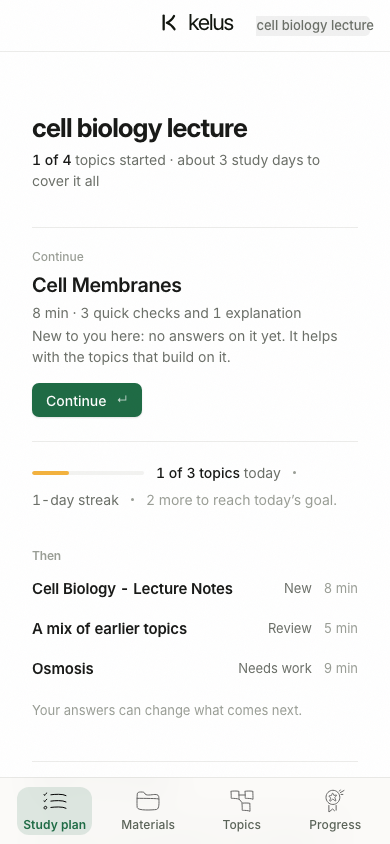
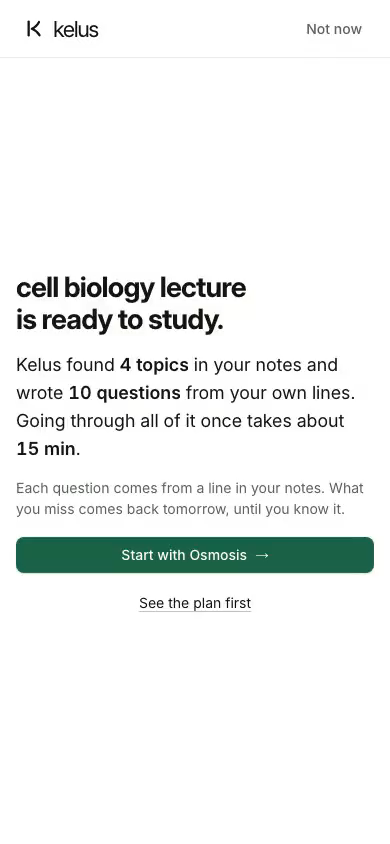
Trim hero walkthrough intro and hide video chrome

diff --git a/components/hero/HeroProductVideo.tsx b/components/hero/HeroProductVideo.tsx
@@ -4,6 +4,9 @@ import { useEffect, useRef, useState } from "react";
 import { useReducedMotion } from "motion/react";
 import styles from "./ProductVideoHero.module.css";
 
+// The recording's opening shows the setup screen; the hero begins once the imported course is ready.
+const WALKTHROUGH_START_SECONDS = 4;
+
 /** Actual browser recordings of a fresh PDF upload and revision session. */
 export function HeroProductVideo() {
   const desktop = useRef<HTMLVideoElement>(null);
@@ -11,6 +14,7 @@ export function HeroProductVideo() {
   const pausedByUser = useRef(false);
   const manuallyPlaying = useRef(false);
   const [playback, setPlayback] = useState<"playing" | "paused" | "ended">("paused");
+  const [decodedFrame, setDecodedFrame] = useState({ desktop: false, mobile: false });
   const reduceMotion = useReducedMotion();
 
   const visibleVideo = () => [desktop.current, mobile.current].find(
@@ -28,7 +32,7 @@ export function HeroProductVideo() {
     }
     pausedByUser.current = false;
     manuallyPlaying.current = true;
-    if (video.ended) video.currentTime = 0;
+    if (video.ended) video.currentTime = WALKTHROUGH_START_SECONDS;
     void video.play().catch(() => setPlayback("paused"));
   };
 
@@ -37,6 +41,12 @@ export function HeroProductVideo() {
     const motionOff = Boolean(reduceMotion) || window.matchMedia("(prefers-reduced-motion: reduce)").matches;
     const syncPlayback = () => {
       for (const video of videos) {
+        if (video.readyState < HTMLMediaElement.HAVE_METADATA) continue;
+        if (video.currentTime < WALKTHROUGH_START_SECONDS) {
+          video.currentTime = WALKTHROUGH_START_SECONDS;
+          continue;
+        }
+        if (video.seeking) continue;
         const active = getComputedStyle(video).display !== "none"
           && video.getBoundingClientRect().top < window.innerHeight * 0.8
           && video.getBoundingClientRect().bottom > window.innerHeight * 0.2;
@@ -48,7 +58,11 @@ export function HeroProductVideo() {
       }
     };
     const observer = new IntersectionObserver(syncPlayback, { threshold: [0, 0.2, 0.8] });
-    videos.forEach((video) => observer.observe(video));
+    videos.forEach((video) => {
+      observer.observe(video);
+      video.addEventListener("loadedmetadata", syncPlayback);
+      video.addEventListener("seeked", syncPlayback);
+    });
     document.addEventListener("visibilitychange", syncPlayback);
     window.addEventListener("resize", syncPlayback);
     syncPlayback();
@@ -56,55 +70,67 @@ export function HeroProductVideo() {
       observer.disconnect();
       document.removeEventListener("visibilitychange", syncPlayback);
       window.removeEventListener("resize", syncPlayback);
-      videos.forEach((video) => video.pause());
+      videos.forEach((video) => {
+        video.removeEventListener("loadedmetadata", syncPlayback);
+        video.removeEventListener("seeked", syncPlayback);
+        video.pause();
+      });
     };
   }, [reduceMotion]);
 
   return (
     <figure className={styles.videoFigure} aria-label="Kelus product walkthrough: upload a lecture PDF, answer a recall question, and see the study plan respond">
       <div className={styles.videoFrame}>
-        <video
-          ref={desktop}
-          className={styles.desktopVideo}
-          muted
-          playsInline
-          preload="metadata"
-          poster="/hero/kelus-product-poster.png"
-          aria-label="Watch Kelus turn an uploaded lecture PDF into a study plan"
-          onPlay={() => { if (visibleVideo() === desktop.current) setPlayback("playing"); }}
-          onPause={() => { if (visibleVideo() === desktop.current && !desktop.current?.ended) setPlayback("paused"); }}
-          onEnded={() => { if (visibleVideo() === desktop.current) setPlayback("ended"); }}
+        <button
+          className={styles.videoInteraction}
+          type="button"
+          onClick={togglePlayback}
+          aria-label={`${playback === "playing" ? "Pause" : playback === "ended" ? "Replay" : "Play"} product walkthrough`}
         >
-          <source src="/hero/kelus-product-walkthrough.mp4" type="video/mp4" />
-          <source src="/hero/kelus-product-walkthrough.webm" type="video/webm" />
-          <track src="/hero/kelus-product-walkthrough.vtt" kind="captions" srcLang="en" label="Walkthrough steps" />
-          Your browser does not support video playback.
-        </video>
-        <video
-          ref={mobile}
-          className={styles.mobileVideo}
-          muted
-          playsInline
-          preload="metadata"
-          poster="/hero/kelus-product-poster-mobile.png"
-          aria-label="Watch Kelus turn an uploaded lecture PDF into a study plan on a phone"
-          onPlay={() => { if (visibleVideo() === mobile.current) setPlayback("playing"); }}
-          onPause={() => { if (visibleVideo() === mobile.current && !mobile.current?.ended) setPlayback("paused"); }}
-          onEnded={() => { if (visibleVideo() === mobile.current) setPlayback("ended"); }}
-        >
-          <source src="/hero/kelus-product-walkthrough-mobile.mp4" type="video/mp4" />
-          <source src="/hero/kelus-product-walkthrough-mobile.webm" type="video/webm" />
-          <track src="/hero/kelus-product-walkthrough.vtt" kind="captions" srcLang="en" label="Walkthrough steps" />
-          Your browser does not support video playback.
-        </video>
-        <button className={styles.playbackButton} type="button" onClick={togglePlayback} aria-label={`${playback === "playing" ? "Pause" : playback === "ended" ? "Replay" : "Play"} video`}>
-          {playback === "playing" ? (
-            <svg viewBox="0 0 20 20" fill="currentColor" aria-hidden="true"><rect x="5" y="4" width="3" height="12" rx="1" /><rect x="12" y="4" width="3" height="12" rx="1" /></svg>
-          ) : playback === "ended" ? (
-            <svg viewBox="0 0 20 20" fill="none" stroke="currentColor" strokeWidth="1.8" strokeLinecap="round" strokeLinejoin="round" aria-hidden="true"><path d="M16 6a7 7 0 1 0 1 6" /><path d="M16 2v4h-4" /></svg>
-          ) : (
-            <svg viewBox="0 0 20 20" fill="currentColor" aria-hidden="true"><path d="M6 3.8a1 1 0 0 1 1.5-.86l9 6.2a1 1 0 0 1 0 1.72l-9 6.2A1 1 0 0 1 6 16.2V3.8Z" /></svg>
-          )}
+          <video
+            ref={desktop}
+            className={`${styles.desktopVideo} ${decodedFrame.desktop ? styles.decodedFrame : ""}`}
+            muted
+            playsInline
+            preload="metadata"
+            poster="/hero/kelus-product-poster.png"
+            aria-hidden="true"
+            onPlay={() => { if (visibleVideo() === desktop.current) setPlayback("playing"); }}
+            onTimeUpdate={() => {
+              if (desktop.current && desktop.current.currentTime > WALKTHROUGH_START_SECONDS + 0.1) {
+                setDecodedFrame((frames) => frames.desktop ? frames : { ...frames, desktop: true });
+              }
+            }}
+            onPause={() => { if (visibleVideo() === desktop.current && !desktop.current?.ended) setPlayback("paused"); }}
+            onEnded={() => { if (visibleVideo() === desktop.current) setPlayback("ended"); }}
+          >
+            <source src="/hero/kelus-product-walkthrough.mp4" type="video/mp4" />
+            <source src="/hero/kelus-product-walkthrough.webm" type="video/webm" />
+            <track src="/hero/kelus-product-walkthrough.vtt" kind="captions" srcLang="en" label="Walkthrough steps" />
+            Your browser does not support video playback.
+          </video>
+          <video
+            ref={mobile}
+            className={`${styles.mobileVideo} ${decodedFrame.mobile ? styles.decodedFrame : ""}`}
+            muted
+            playsInline
+            preload="metadata"
+            poster="/hero/kelus-product-poster-mobile.png"
+            aria-hidden="true"
+            onPlay={() => { if (visibleVideo() === mobile.current) setPlayback("playing"); }}
+            onTimeUpdate={() => {
+              if (mobile.current && mobile.current.currentTime > WALKTHROUGH_START_SECONDS + 0.1) {
+                setDecodedFrame((frames) => frames.mobile ? frames : { ...frames, mobile: true });
+              }
+            }}
+            onPause={() => { if (visibleVideo() === mobile.current && !mobile.current?.ended) setPlayback("paused"); }}
+            onEnded={() => { if (visibleVideo() === mobile.current) setPlayback("ended"); }}
+          >
+            <source src="/hero/kelus-product-walkthrough-mobile.mp4" type="video/mp4" />
+            <source src="/hero/kelus-product-walkthrough-mobile.webm" type="video/webm" />
+            <track src="/hero/kelus-product-walkthrough.vtt" kind="captions" srcLang="en" label="Walkthrough steps" />
+            Your browser does not support video playback.
+          </video>
         </button>
       </div>
     </figure>

diff --git a/e2e/hero-product-video.spec.ts b/e2e/hero-product-video.spec.ts
@@ -12,7 +12,13 @@ test("the homepage shows a recording of the real product at desktop and phone si
     await expect(hero.locator("figcaption")).toHaveCount(0);
     await expect(hero.locator("video:visible")).toHaveAttribute("poster", /kelus-product-poster/);
     await expect(hero.locator("video:visible source").first()).toHaveAttribute("src", /kelus-product-walkthrough.*\.mp4/);
-    await expect(hero.getByRole("button", { name: /^(Play|Pause) video$/ })).toBeVisible();
+    await expect(hero.getByRole("button", { name: /^(Play|Pause|Replay) product walkthrough$/ })).toBeVisible();
+    await expect(hero.locator("button svg")).toHaveCount(0);
+    expect(await hero.evaluate((element) => {
+      const frame = element.querySelector("figure > div")?.getBoundingClientRect();
+      const visible = [...element.querySelectorAll("video")].find((item) => getComputedStyle(item).display !== "none");
+      return Boolean(frame && visible && visible.getBoundingClientRect().top < frame.top - 5);
+    })).toBe(true);
     expect(await page.evaluate(() => document.documentElement.scrollWidth <= innerWidth)).toBe(true);
   }
   expect(errors).toEqual([]);
@@ -26,10 +32,11 @@ test("the recording autoplays without a control bar or caption, and can be pause
   await expect(video.locator("track")).toHaveAttribute("kind", "captions");
   await expect(page.locator('[data-hero="product-video"] figcaption')).toHaveCount(0);
   await expect.poll(() => video.evaluate((element: HTMLVideoElement) => element.readyState)).toBeGreaterThan(0);
-  await expect.poll(() => video.evaluate((element: HTMLVideoElement) => element.currentTime)).toBeGreaterThan(0);
-  await page.getByRole("button", { name: "Pause video" }).click();
+  await expect.poll(() => video.evaluate((element: HTMLVideoElement) => element.currentTime)).toBeGreaterThan(4);
+  await expect.poll(() => video.evaluate((element) => getComputedStyle(element).opacity)).toBe("1");
+  await page.getByRole("button", { name: "Pause product walkthrough" }).click();
   await expect.poll(() => video.evaluate((element: HTMLVideoElement) => element.paused)).toBe(true);
-  await page.getByRole("button", { name: "Play video" }).click();
+  await page.getByRole("button", { name: "Play product walkthrough" }).click();
   await expect.poll(() => video.evaluate((element: HTMLVideoElement) => element.paused)).toBe(false);
   await page.locator('[data-hero="product-video"]').getByRole("link", { name: "Set up" }).click();
   await expect(page.getByRole("heading", { name: "Start with your notes." })).toBeVisible();
@@ -42,8 +49,14 @@ test("reduced motion keeps the recording paused until the student chooses play",
   await expect(video).toBeVisible();
   await expect.poll(() => video.evaluate((element: HTMLVideoElement) => element.paused)).toBe(true);
   await expect(video).toHaveAttribute("poster", /kelus-product-poster/);
-  await page.getByRole("button", { name: "Play video" }).click();
+  await expect.poll(() => video.evaluate((element: HTMLVideoElement) => element.currentTime)).toBeGreaterThanOrEqual(4);
+  await expect(video).toHaveCSS("opacity", "0");
+  await expect(page.locator('[data-hero="product-video"] figure > div')).toHaveCSS("background-image", /kelus-product-poster/);
+  await page.getByRole("button", { name: "Play product walkthrough" }).click();
   await expect.poll(() => video.evaluate((element: HTMLVideoElement) => element.paused)).toBe(false);
+  await page.getByRole("button", { name: "Pause product walkthrough" }).focus();
+  await page.keyboard.press("Space");
+  await expect.poll(() => video.evaluate((element: HTMLVideoElement) => element.paused)).toBe(true);
 });
 
 test("the revision story still follows the video without a duplicate sample", async ({ page }) => {

diff --git a/components/hero/ProductVideoHero.module.css b/components/hero/ProductVideoHero.module.css
@@ -65,46 +65,39 @@
 .videoFigure { margin: 0; }
 .videoFrame {
   position: relative;
+  aspect-ratio: 1280 / 748;
   overflow: hidden;
   border: 1px solid var(--hero-line);
   border-radius: 8px;
-  background: var(--color-pure-white);
+  background: var(--color-pure-white) url("/hero/kelus-product-poster.png") center bottom / cover no-repeat;
   box-shadow: 0 18px 40px -32px rgba(18, 22, 15, .36);
 }
-.desktopVideo, .mobileVideo { display: block; width: 100%; height: auto; background: var(--color-pure-white); }
-.mobileVideo { display: none; }
-.playbackButton {
-  position: absolute;
-  top: 12px;
-  right: 12px;
-  display: grid;
-  place-items: center;
-  width: 44px;
-  height: 44px;
+.videoInteraction {
+  display: block;
+  width: 100%;
   padding: 0;
-  border: 1px solid var(--hero-line);
-  border-radius: 50%;
-  background: var(--color-pure-white);
-  color: var(--hero-ink);
+  border: 0;
+  background: transparent;
   cursor: pointer;
-  transition: transform 150ms var(--ease-standard);
 }
-.playbackButton svg { width: 20px; height: 20px; }
-.playbackButton:hover { transform: scale(1.06); }
-.playbackButton:active { transform: scale(.97); transition-duration: 80ms; }
-.playbackButton:focus-visible { outline: 3px solid var(--hero-green); outline-offset: 3px; }
+.videoInteraction:focus-visible { outline: 3px solid var(--hero-green); outline-offset: -5px; }
+.desktopVideo, .mobileVideo { display: block; width: 100%; height: auto; opacity: 0; }
+.decodedFrame { opacity: 1; }
+.desktopVideo { transform: translateY(-6.5%); }
+.mobileVideo { display: none; }
 
 @media (max-width: 640px) {
   .hero { padding: 46px 16px 48px; }
   .hero .headline { max-width: 13ch; font-size: clamp(40px, 10.5vw, 56px); }
   .hero .lede { max-width: 31ch; margin-top: 18px; }
   .visual { width: min(390px, 100%); margin-top: 32px; }
+  .videoFrame { aspect-ratio: 390 / 790; }
   .desktopVideo { display: none; }
-  .mobileVideo { display: block; }
+  .mobileVideo { display: block; transform: translateY(-6.4%); }
+  .videoFrame { background-image: url("/hero/kelus-product-poster-mobile.png"); }
 }
 
 @media (prefers-reduced-motion: reduce) {
-  .primary, .primaryArrow, .playbackButton { transition: none; }
+  .primary, .primaryArrow { transition: none; }
   .primary:hover, .primary:hover .primaryArrow, .primary:active { transform: none; }
-  .playbackButton:hover, .playbackButton:active { transform: none; }
 }
